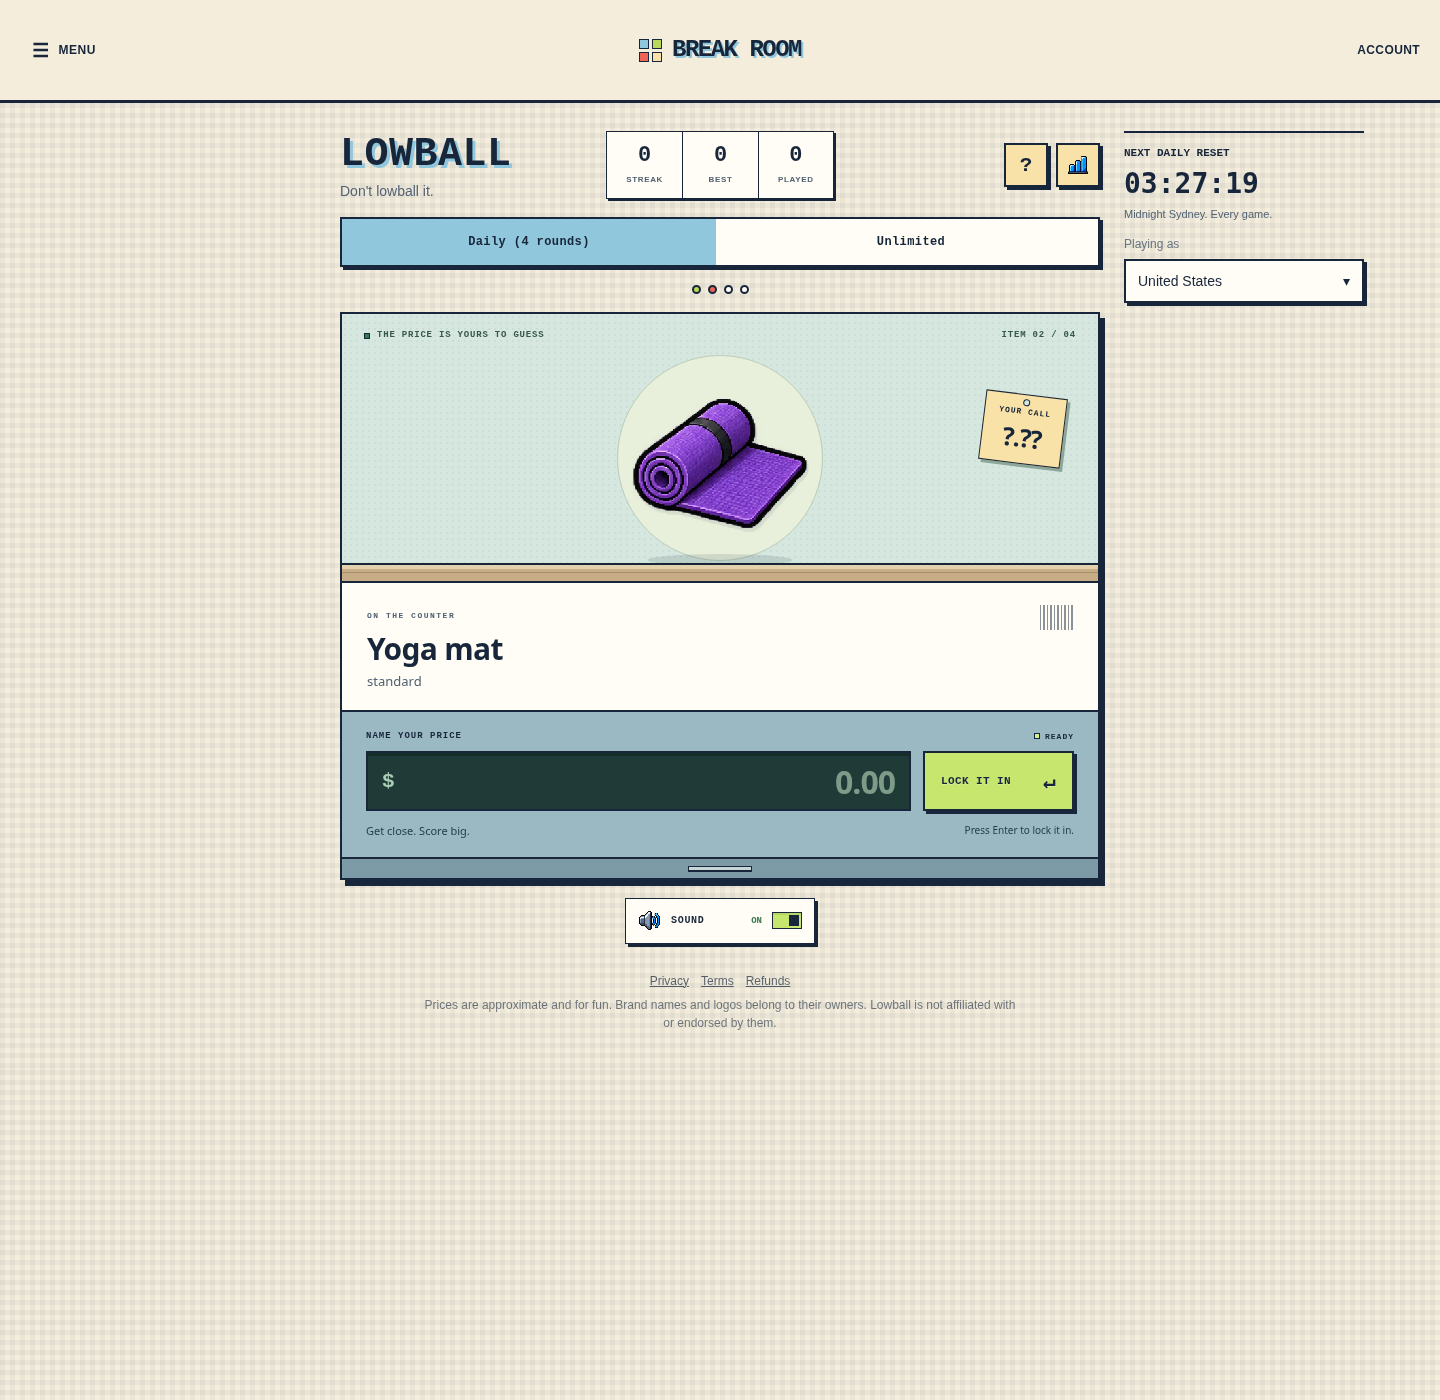
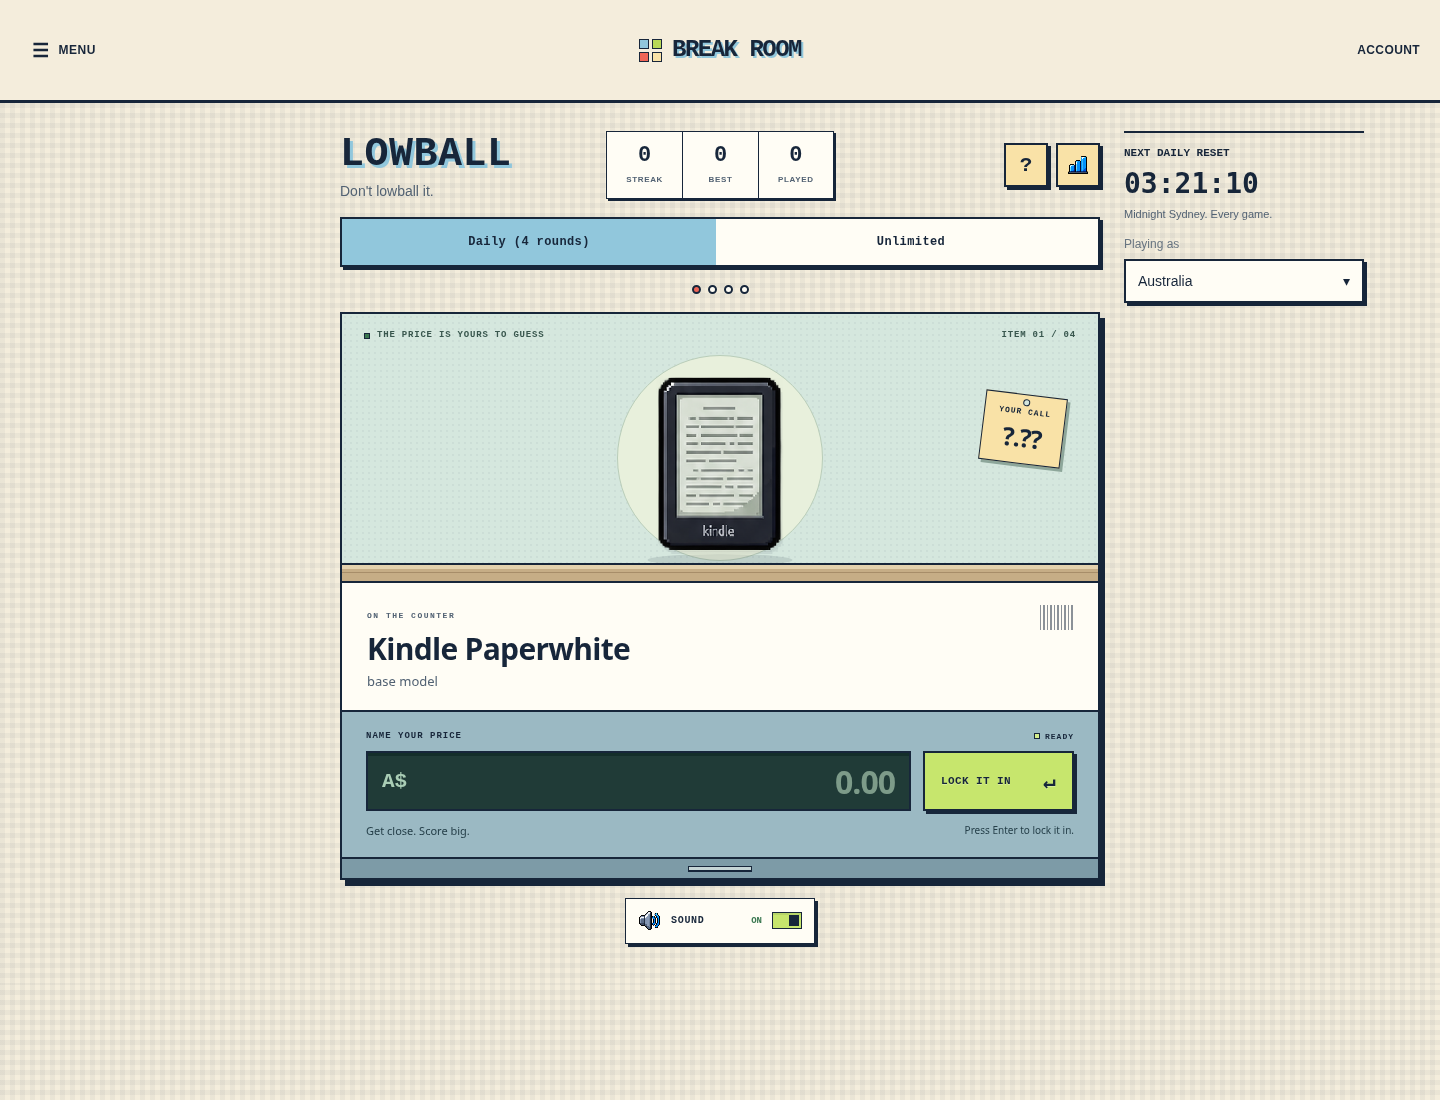
Remove Lowball standalone legal links and disclaimer footer

diff --git a/games/lowball/engine/index.html b/games/lowball/engine/index.html
@@ -688,10 +688,6 @@
 
   <button type="button" class="sound-btn" id="soundBtn">Sound: on</button>
 
-  <div class="legal-footer">
-    <div><a href="privacy.html">Privacy</a><a href="terms.html">Terms</a><a href="refunds.html">Refunds</a><a href="#" id="cookieSettingsLink" style="display:none">Cookie settings</a></div>
-    <div class="fine">Prices are approximate and for fun. Brand names and logos belong to their owners. Lowball is not affiliated with or endorsed by them.</div>
-  </div>
 
   <div class="modal" id="helpModal" role="dialog" aria-modal="true" aria-labelledby="helpTitle">
     <div class="modal-panel">
